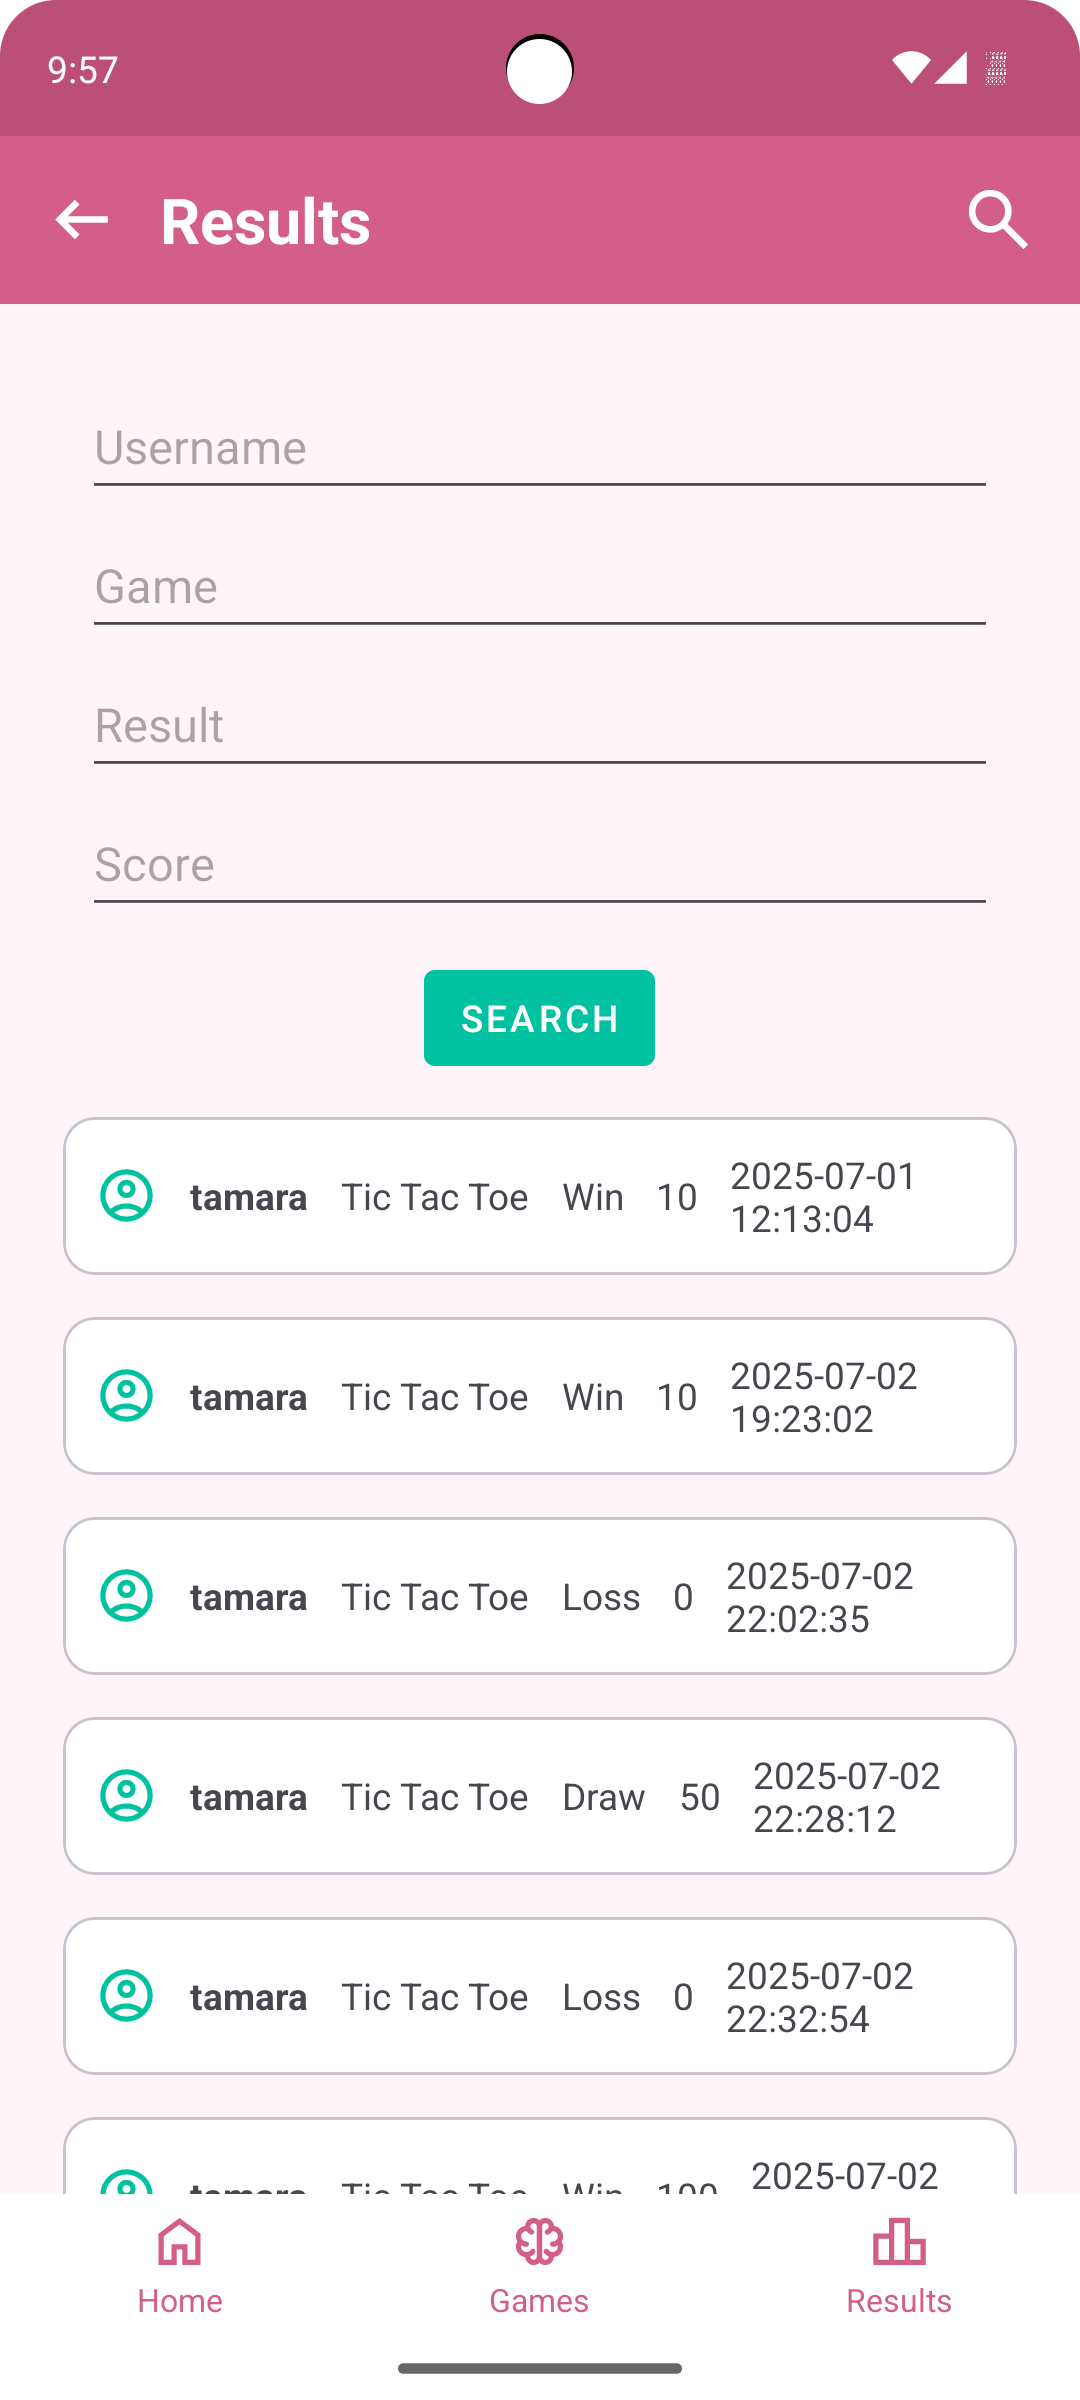
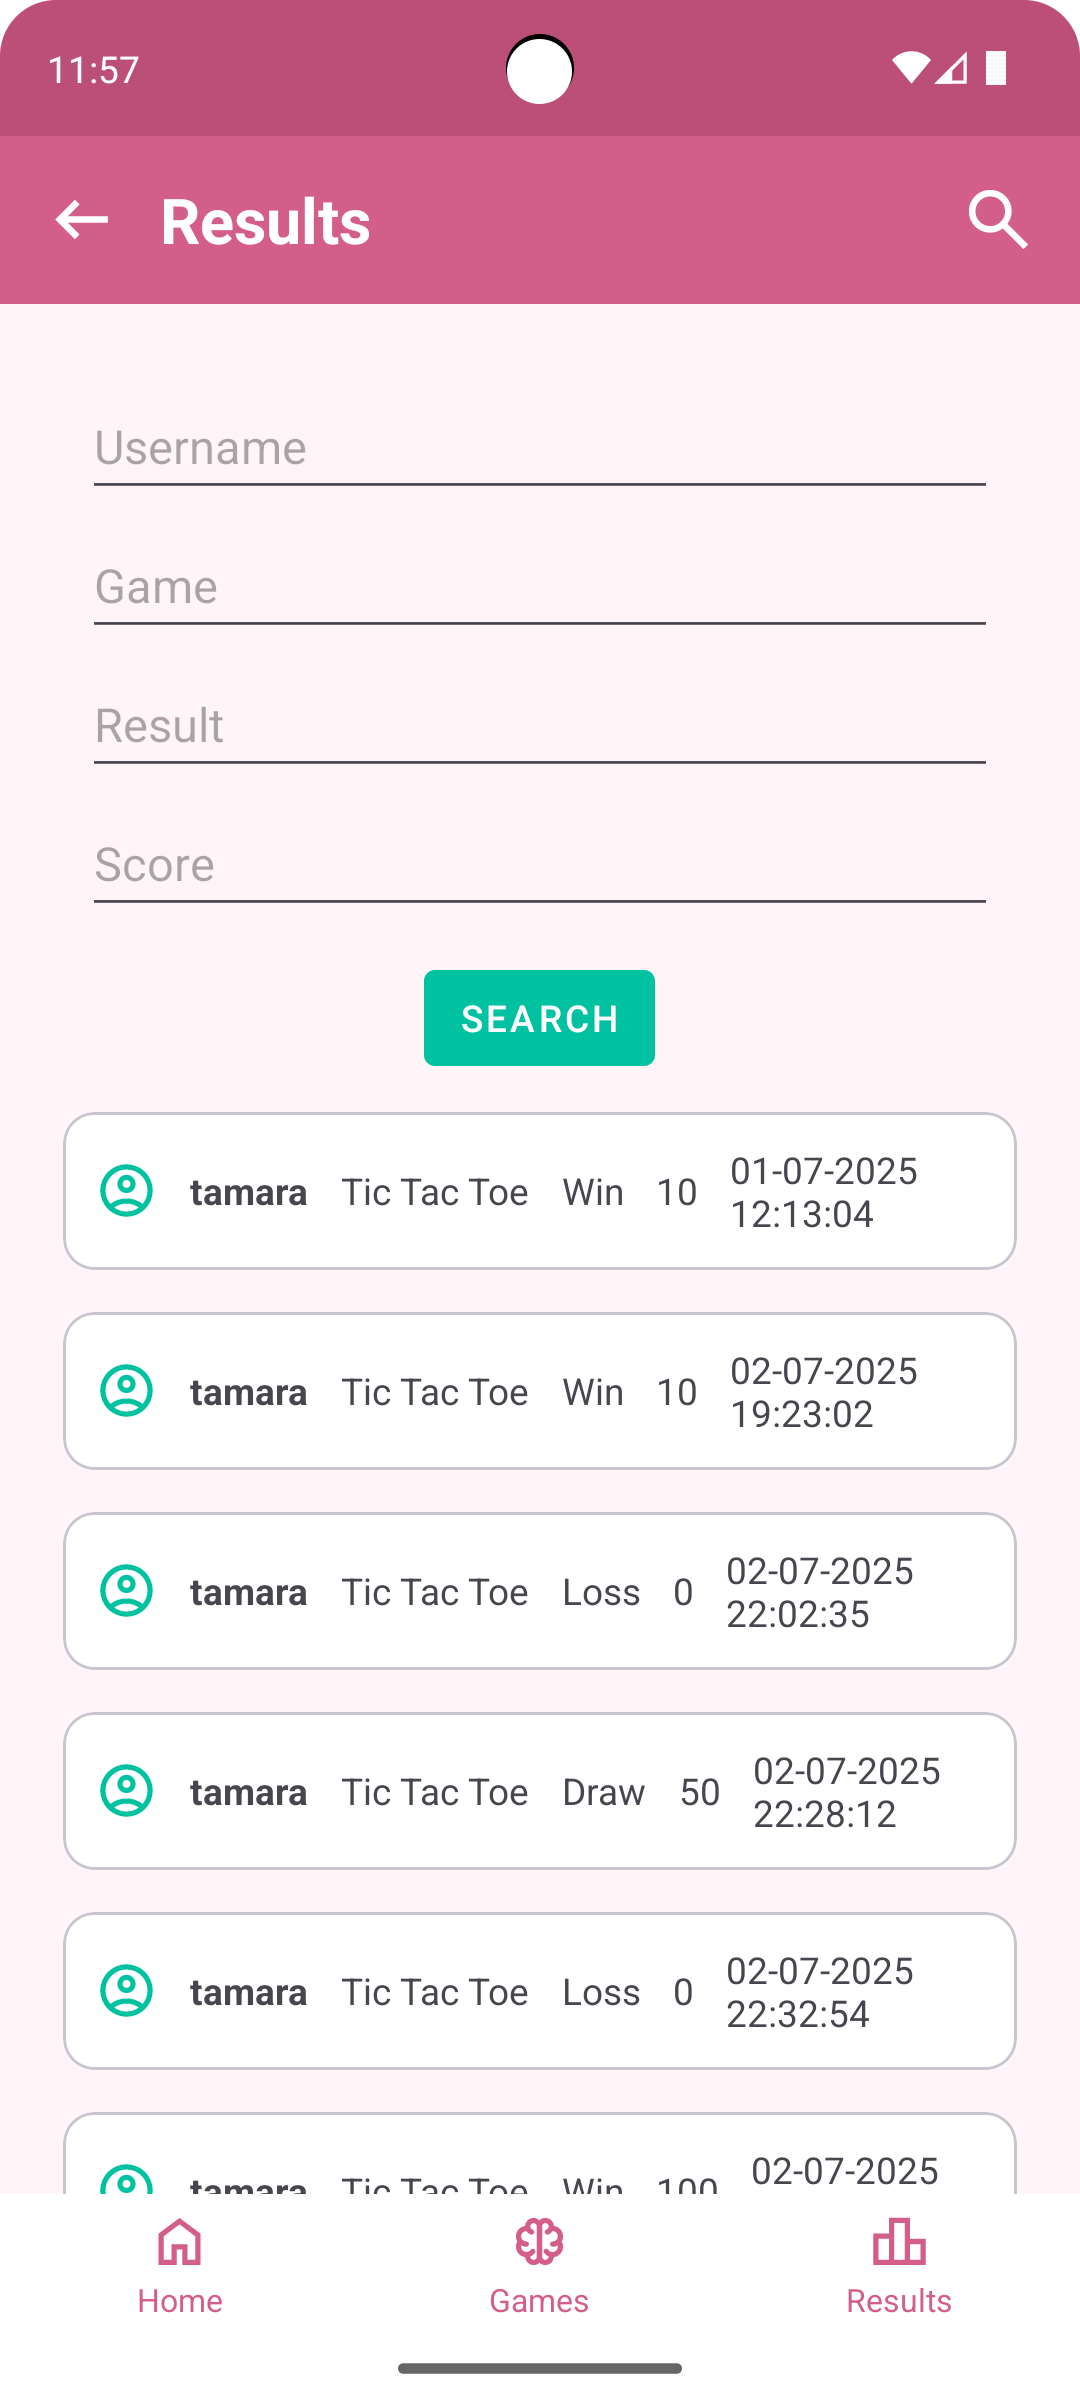
Fixed the date format in the results screen

diff --git a/Mozgalica/app/src/main/java/com/example/mozgalica/activities/HistoryActivity.java b/Mozgalica/app/src/main/java/com/example/mozgalica/activities/HistoryActivity.java
@@ -22,6 +22,10 @@ import com.example.mozgalica.database.DatabaseHelper;
 import com.example.mozgalica.models.GameResult;
 
 import java.util.List;
+import java.text.SimpleDateFormat;
+import java.util.Date;
+import java.util.Locale;
+
 
 public class HistoryActivity extends AppCompatActivity {
 
@@ -115,7 +119,15 @@ public class HistoryActivity extends AppCompatActivity {
                             ((TextView) card.findViewById(R.id.tvGame)).setText(r.getGame());
                             ((TextView) card.findViewById(R.id.tvResult)).setText(r.getResult());
                             ((TextView) card.findViewById(R.id.tvScore)).setText(String.valueOf(r.getScore()));
-                            ((TextView) card.findViewById(R.id.tvTimestamp)).setText(String.valueOf(r.getTimestamp()));
+                            try {
+                                SimpleDateFormat inputFormat = new SimpleDateFormat("yyyy-MM-dd HH:mm:ss", Locale.getDefault());
+                                SimpleDateFormat outputFormat = new SimpleDateFormat("dd-MM-yyyy HH:mm:ss", Locale.getDefault());
+                                Date parsedDate = inputFormat.parse(r.getTimestamp());
+                                String formattedDate = outputFormat.format(parsedDate);
+                                ((TextView) card.findViewById(R.id.tvTimestamp)).setText(formattedDate);
+                            } catch (Exception e) {
+                                ((TextView) card.findViewById(R.id.tvTimestamp)).setText("");
+                            }
 
                             resultsContainer.addView(card);
                         }
@@ -153,7 +165,15 @@ public class HistoryActivity extends AppCompatActivity {
                         ((TextView) card.findViewById(R.id.tvGame)).setText(r.getGame());
                         ((TextView) card.findViewById(R.id.tvResult)).setText(r.getResult());
                         ((TextView) card.findViewById(R.id.tvScore)).setText(String.valueOf(r.getScore()));
-                        ((TextView) card.findViewById(R.id.tvTimestamp)).setText(String.valueOf(r.getTimestamp()));
+                        try {
+                            SimpleDateFormat inputFormat = new SimpleDateFormat("yyyy-MM-dd HH:mm:ss", Locale.getDefault());
+                            SimpleDateFormat outputFormat = new SimpleDateFormat("dd-MM-yyyy HH:mm:ss", Locale.getDefault());
+                            Date parsedDate = inputFormat.parse(r.getTimestamp());
+                            String formattedDate = outputFormat.format(parsedDate);
+                            ((TextView) card.findViewById(R.id.tvTimestamp)).setText(formattedDate);
+                        } catch (Exception e) {
+                            ((TextView) card.findViewById(R.id.tvTimestamp)).setText("");
+                        }
 
                         resultsContainer.addView(card);
                     }
